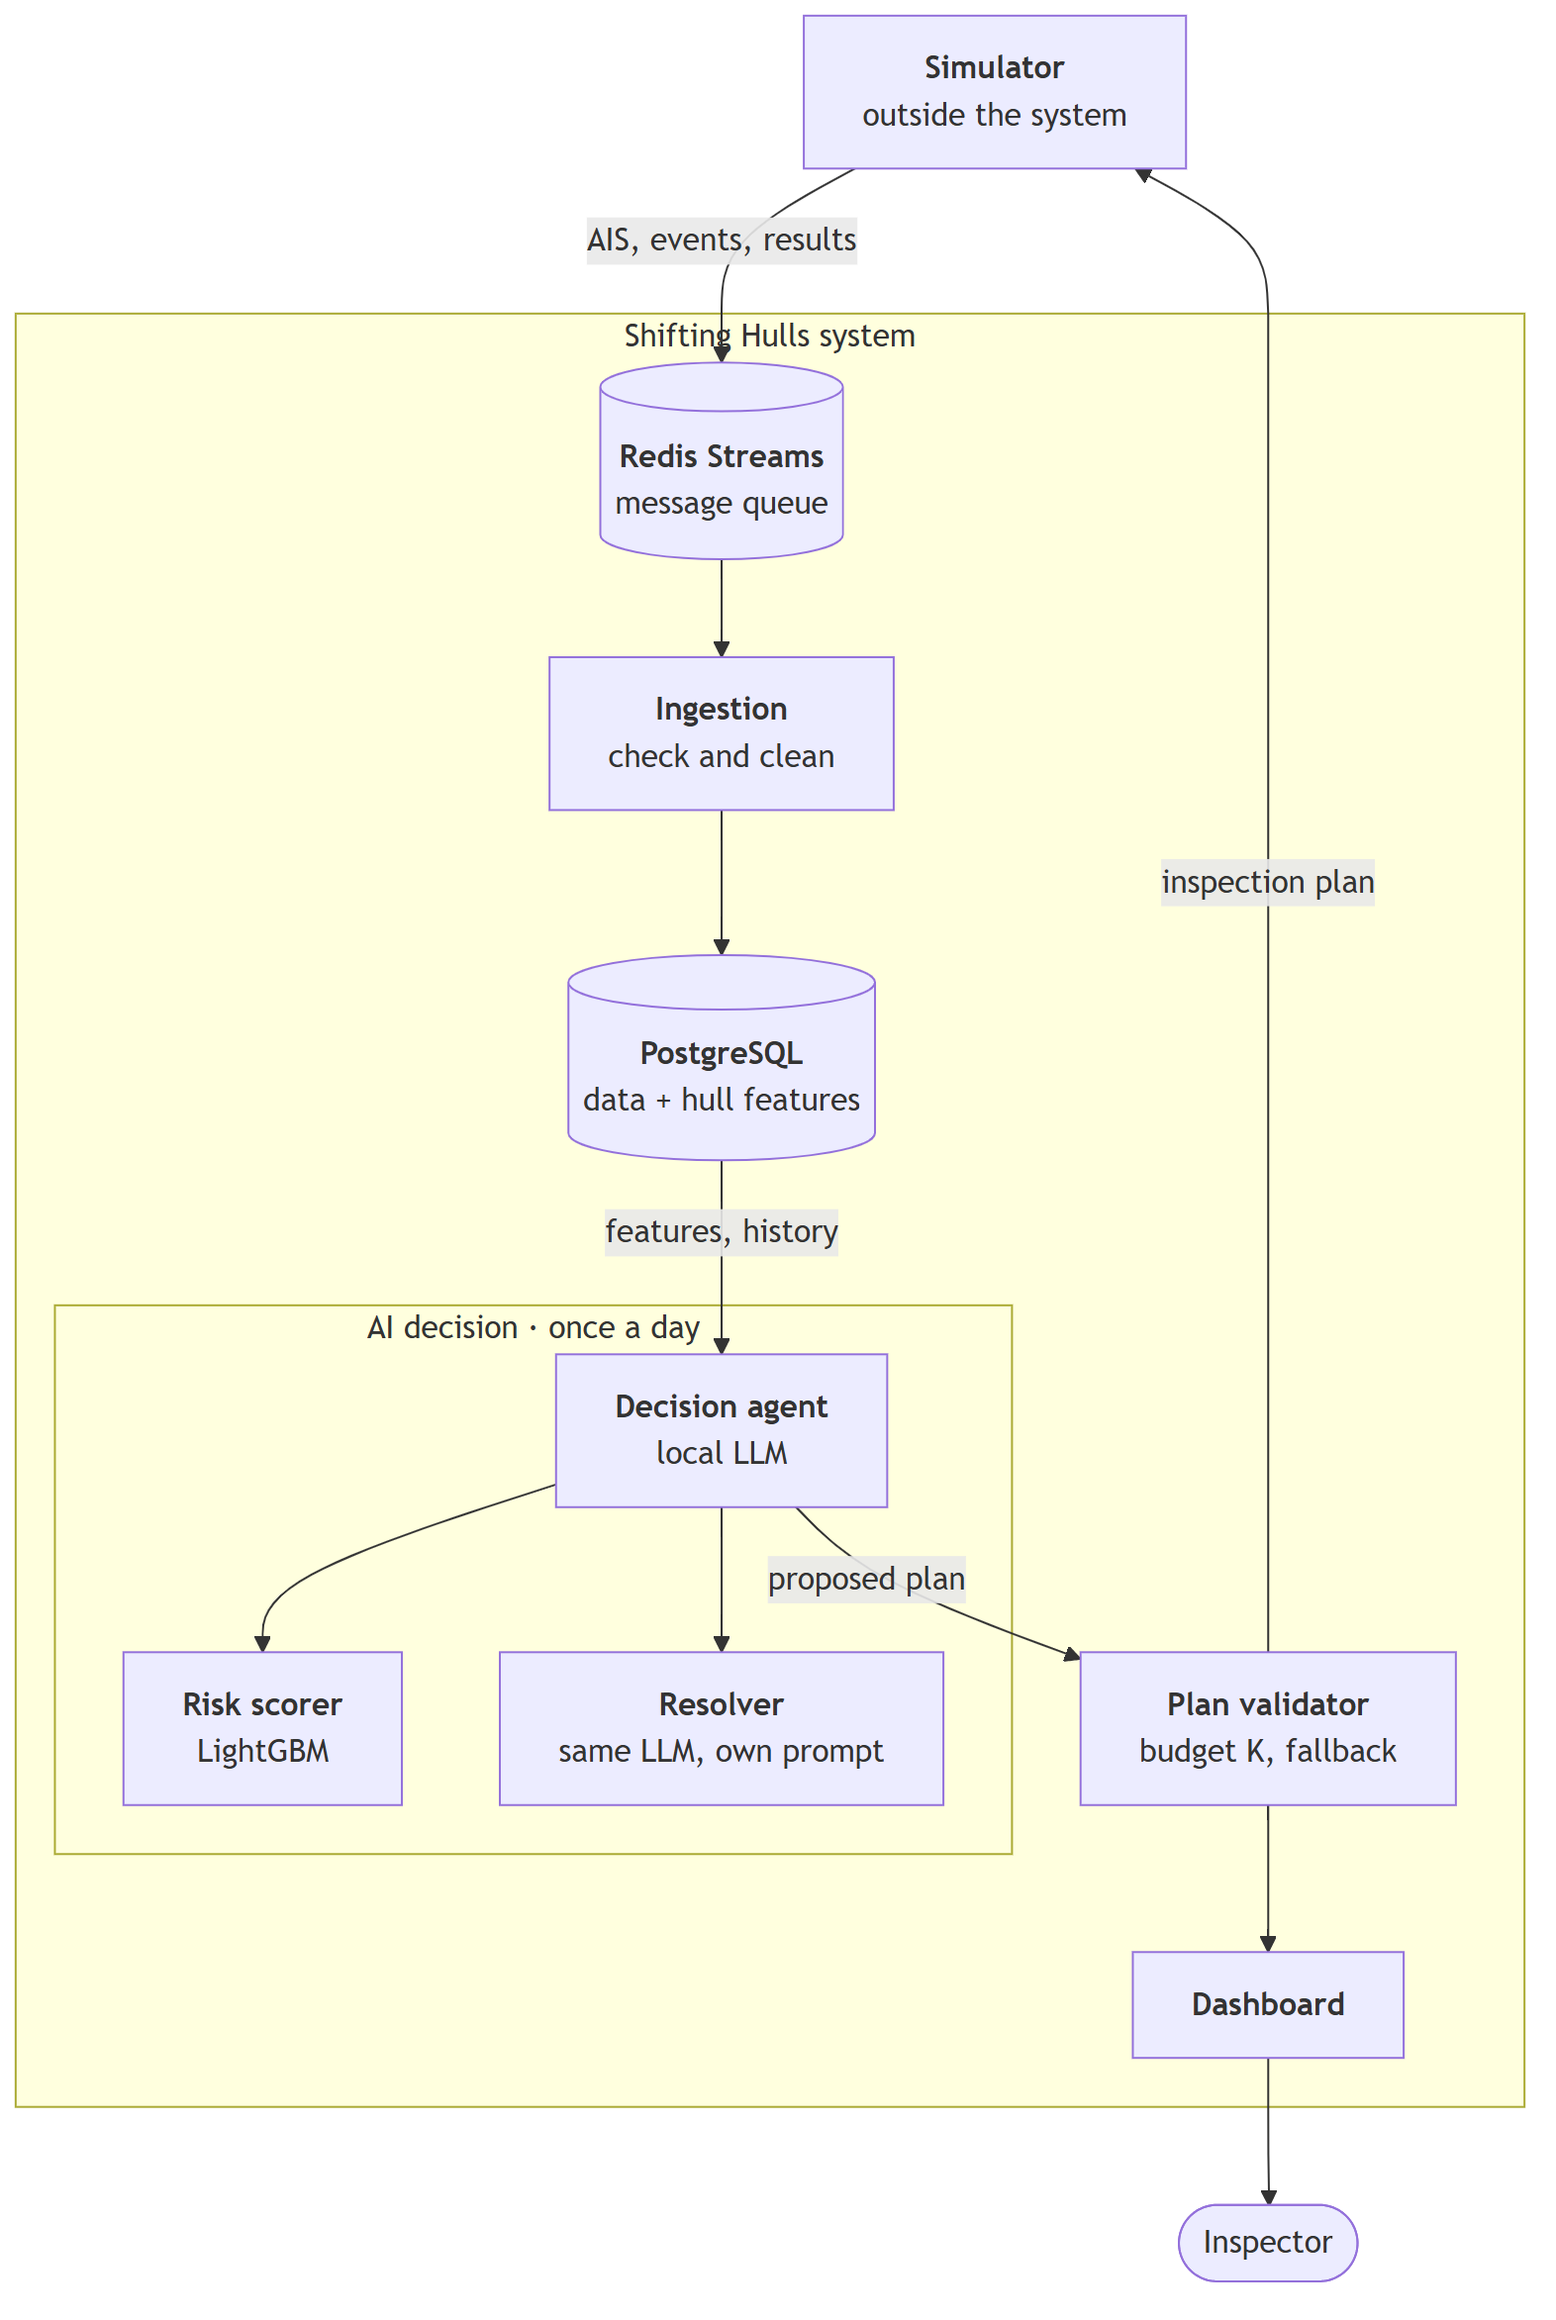
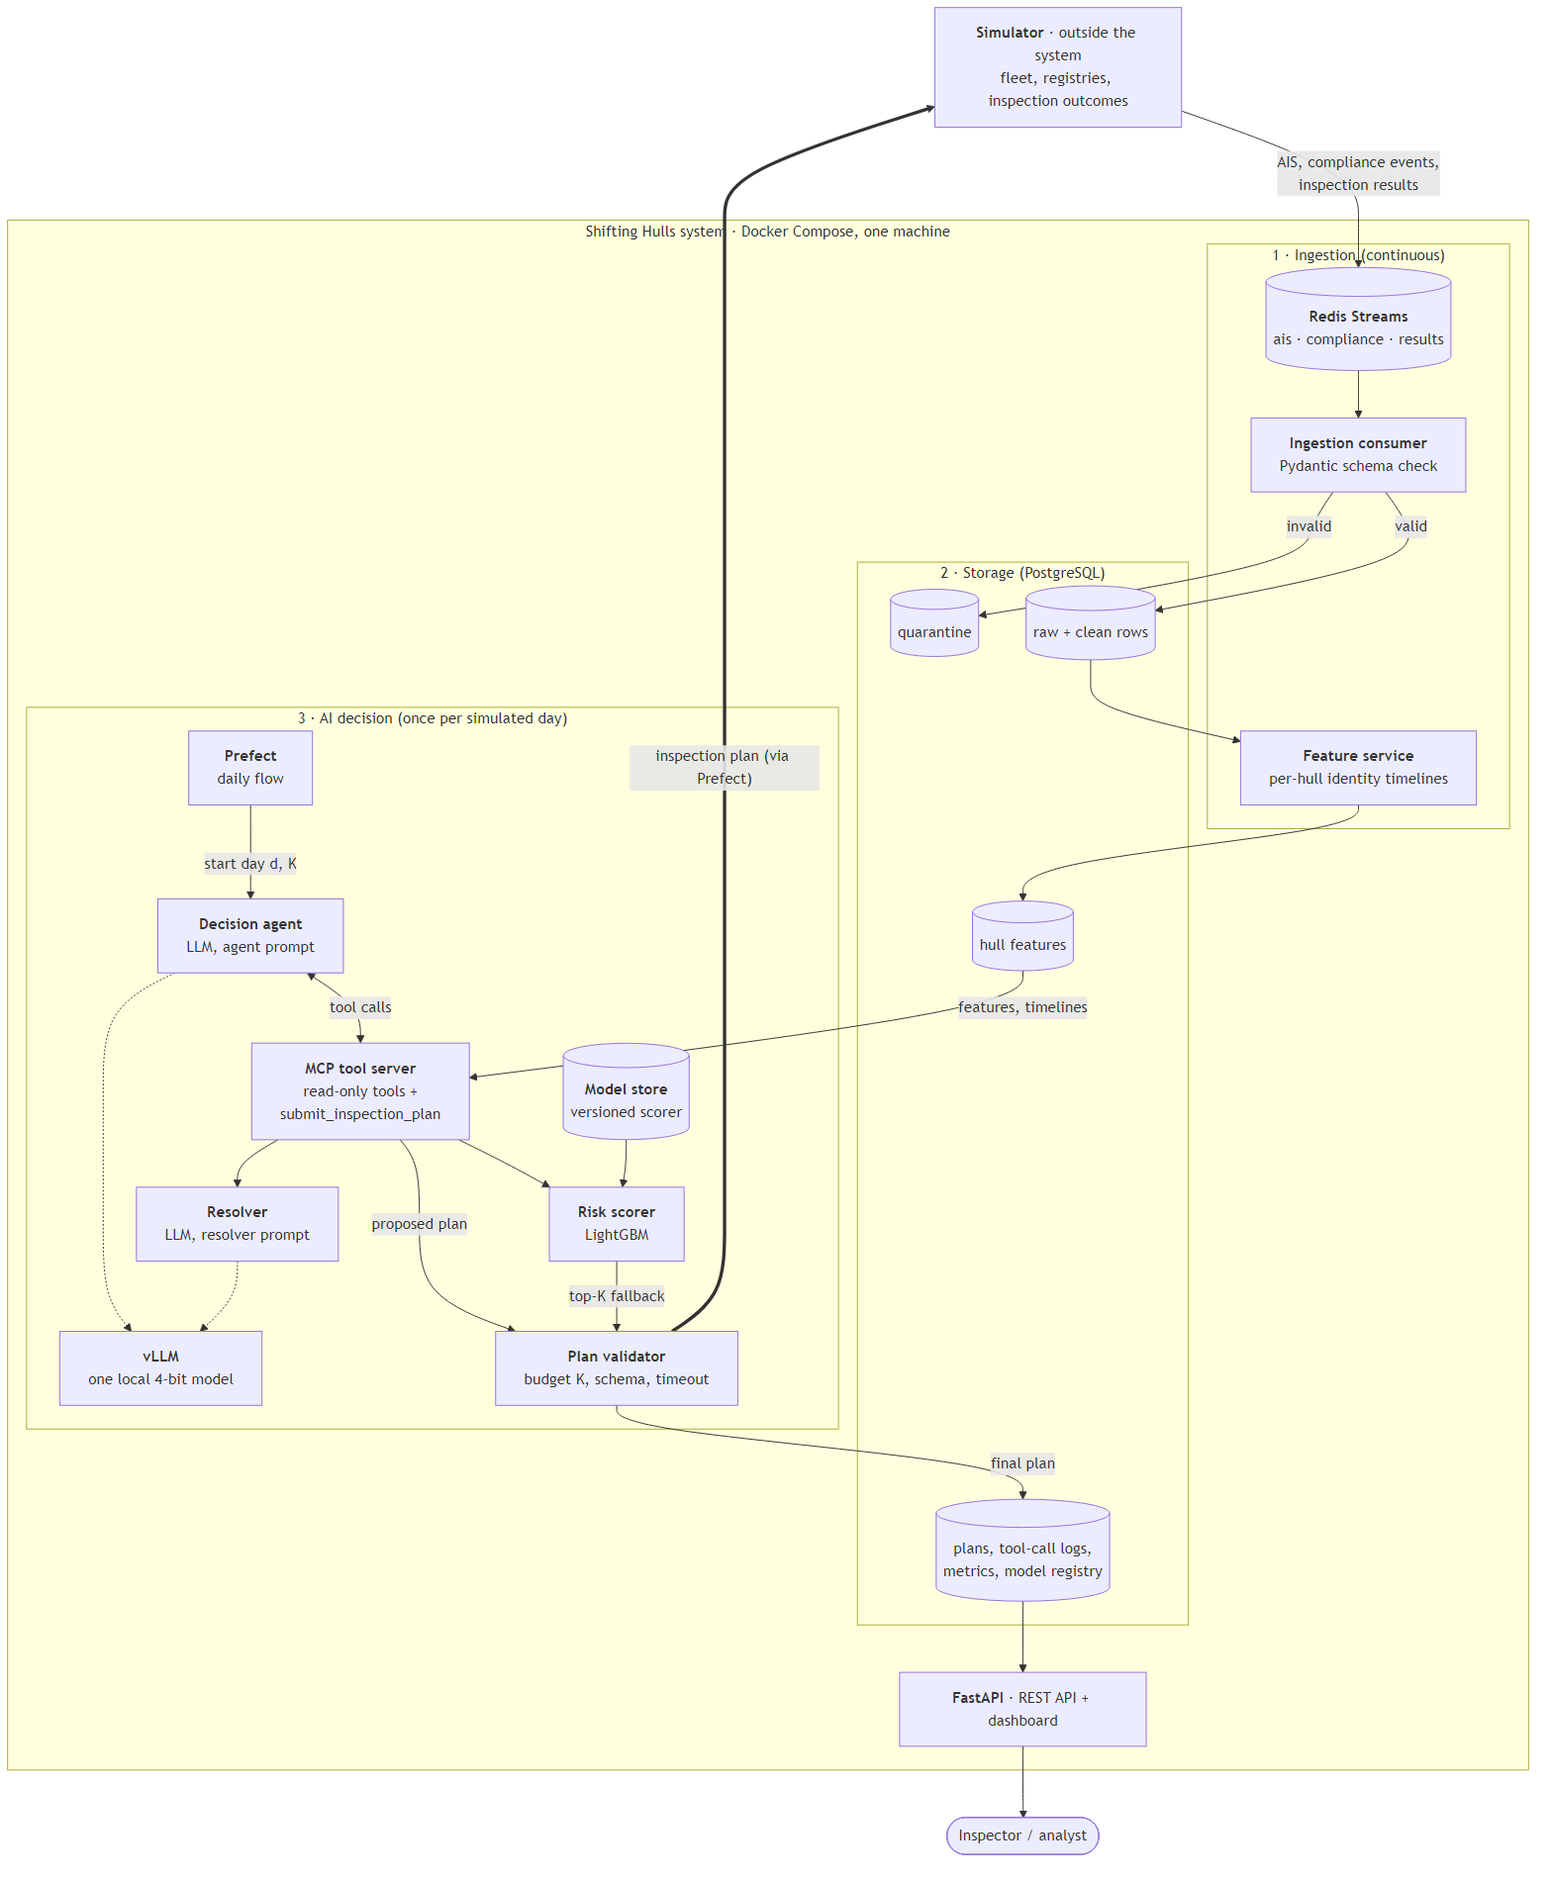
Complete Milestone 2 architecture and plan
Complete Milestone 2 architecture and plan

- Diagrams: full component view with fallback path and system
  boundary; fix inspection-result flow in daily cycle
- Add Stream C schema, MCP tool list and drift retraining policy
- Add secondary metrics, timeline risks and change-log rules
- Add Section 8 (changes since Milestone 1) and root README

diff --git a/docs/Milestone_2_Architecture_and_Plan.md b/docs/Milestone_2_Architecture_and_Plan.md
@@ -82,6 +82,16 @@ A seeded simulator, configured in YAML, creates a fleet of N hulls (default N = 
 
 **Stream C: inspection results** (feedback loop). After each day the simulator reports what each inspection found (shadow or not). Inspected shadow hulls may adapt, for example by changing identity less often and switching off AIS more often. This is how drift is created.
 
+| Field | Example | Notes |
+|---|---|---|
+| `day`, `plan_id` | 12, `p-0012` | Which daily plan the inspection belongs to |
+| `imo`, `mmsi` | 9319703, 273456780 | Identity of the inspected hull at inspection time |
+| `outcome` | `shadow` / `clean` | The only ground truth the system ever sees during operation |
+| `reported_at` | end of day *d* | Available to the system from day *d*+1 |
+
+- **Frequency:** K messages per simulated day (one per inspected hull).
+- **Labels and fairness of evaluation:** the system only learns labels for hulls it chose to inspect. The full ground truth (which hulls are shadow) stays inside the simulator and is used only by the evaluation scripts, never by the running system.
+
 ### 2.3 How new data enters the system
 
 1. The simulator publishes messages to **Redis Streams** (one stream each for AIS, compliance and inspection results).
@@ -97,16 +107,16 @@ Because every message is stored raw, any simulated day can be **replayed** later
 
 ### 3.1 Components and data flow
 
-<p align="center"><img src="diagrams/architecture.png" alt="System architecture" width="520"></p>
+<p align="center"><img src="diagrams/architecture.png" alt="System architecture" width="760"></p>
 
-**How to read it**
+**How to read it** (the numbers match the boxes in the diagram)
 
-1. The simulator sends AIS messages, compliance events and inspection results into Redis Streams.
-2. Ingestion checks every message and stores it in PostgreSQL, where the features of each hull are kept up to date.
-3. Once a day, the decision agent reads this data, asks the risk scorer and the resolver for help, and proposes K hulls to inspect.
-4. The plan validator checks the plan, or falls back to the scorer's top-K, and the plan goes back to the simulator. The dashboard shows it to the inspector.
+1. **Ingestion, continuous.** The simulator sends AIS messages, compliance events and inspection results into three Redis streams. The ingestion consumer checks every message against its schema. Valid messages are stored as raw and clean rows, and invalid ones go to quarantine. The feature service turns the clean rows into per-hull identity timelines and features.
+2. **Storage.** One PostgreSQL database holds everything: raw and clean rows, quarantine, hull features, and the outputs of the AI layer (plans, every tool call, metrics, and the registry of model versions).
+3. **AI decision, once per simulated day.** Prefect starts the decision agent with the day number and budget K. The agent works only through the MCP tool server. The server reads hull features, calls the risk scorer (loaded from the model store) and the resolver, and accepts the plan through `submit_inspection_plan`. The agent and the resolver both run on the same vLLM model. The plan validator checks the proposed plan. If it is invalid or late, the validator uses the scorer's top-K instead.
+4. **Output.** The final plan is logged, sent back to the simulator through Prefect (thick arrow), and shown in the dashboard. The FastAPI REST API exposes the same data to scripts.
 
-Behind the scenes, Prefect runs the daily cycle, and the agent calls the scorer and the resolver through MCP tools. Model training is shown in Section 5.
+Model training is shown separately in Section 5.
 
 **System boundary.** The simulator is outside the system. It plays the role of the real world: ships, registries and inspection outcomes. Everything inside the "Shifting Hulls system" box is built and evaluated by the project. The only ways in are the Redis streams, and the only way out is the inspection plan.
 
@@ -120,14 +130,26 @@ Behind the scenes, Prefect runs the daily cycle, and the agent calls the scorer 
 | Storage | PostgreSQL | Raw and clean data, identity timelines, plans, metrics |
 | Feature service | Python | Keeps per-hull features up to date (churn, gaps, events) |
 | AI modules | One local LLM on vLLM, LightGBM scorer | See Section 4 |
+| Model store | Versioned files + `models` table | Holds the scorer versions. The current one is loaded at startup |
 | Tool layer | MCP server (Python SDK) | The only way the agent can read data or act |
+| Plan validator | Python | Enforces budget K, the plan schema and the deadline. Falls back to scorer top-K |
 | Orchestration | Prefect | Runs the daily cycle and sends the plan to the simulator |
 | Interface | FastAPI + dashboard | Shows ranked hulls, reasons and metrics. REST API for scripts |
 | Deployment | Docker Compose | Runs all services on one machine |
 
 ### 3.2 One simulated day, step by step
 
-<p align="center"><img src="diagrams/daily-cycle.png" alt="One simulated day" width="680"></p>
+<p align="center"><img src="diagrams/daily-cycle.png" alt="One simulated day" width="760"></p>
+
+Data streams in all day. The decision is made once, at the end of day *d*, using whatever has arrived by then. Late compliance events are therefore simply missing from that day's decision, which is what the *late data* scenario tests. The agent's tools are:
+
+| Tool | Type | Returns |
+|---|---|---|
+| `get_shortlist(m)` | read | Top-*m* hulls by risk score (default *m* = 60), with scores and the main features behind each |
+| `get_timeline(hull)` | read | All MMSIs, names, flags and AIS gaps linked to a hull, with dates |
+| `get_events(hull)` | read | Compliance events linked to a hull, with their publish times |
+| `resolve_identity(records)` | read | Resolver verdict: same hull or not, with a confidence |
+| `submit_inspection_plan(plan)` | **write** | Accepts exactly K hulls with one reason each. The only tool that changes state |
 
 ### 3.3 Security by design
 
@@ -182,6 +204,12 @@ The system has three AI components, each with a separate job and its own metric.
 
 **How the system uses them during operation.** Each simulated day, Prefect starts the agent. The agent calls the scorer and the resolver through MCP tools, gets answers within seconds, and submits a plan. Every call, output and latency is logged. These logs feed the evaluation and later retraining, for example re-scoring after drift (Section 6).
 
+**Retraining policy.**
+
+- The **initial scorer** is trained on development seeds only, using the simulator's ground truth as labels. It is then frozen for all evaluation seeds.
+- **Re-scoring after drift** is tested as a separate condition. On day 15 of each run, the scorer is retrained using only labels the system could really have: its own inspection results plus listing events. The hidden ground truth is not used. A new model version is written to the model store and loaded for days 16–30. Comparing the frozen and retrained conditions shows whether re-scoring recovers the loss caused by drift.
+- The LLM is never retrained. Prompts are frozen before the main experiment, and the prompt version is recorded with every run.
+
 ---
 
 ## 6. Evaluation
@@ -210,6 +238,7 @@ The system has three AI components, each with a separate job and its own metric.
 | Level | Metric |
 |---|---|
 | End-to-end (main) | Shadow hulls caught per 20 inspections, averaged over 30 days, with paired differences and 95% intervals |
+| End-to-end (secondary) | Wasted inspections on legitimate hulls (K minus catches), and the share of the agent's picks that are not in the scorer's top-K (does the agent add anything?) |
 | Resolver | F1, calibration (does a 0.8 confidence mean right 80% of the time?) |
 | Scorer | AUC, precision@K |
 | System | Agent latency per day, queue lag, fallback rate, share of plans delivered on time |
@@ -242,6 +271,36 @@ The system is built and evaluated by the final project-progress milestone on **3
 | 6 | 21–27 Dec | Bug fixes only | **Main experiment:** agent on 10 seeds × 30 days. Drift and load scenarios | Main results table ready |
 | 7 | 28–31 Dec | Bug fixes only | Late data, model server down and prompt injection scenarios. Analysis: paired intervals and success criterion | **Final project-progress milestone, 31 Dec** |
 | – | January 2027 | No new features | Slides, demo and rehearsal | **Final presentation** |
+
+**Risks to the timeline and what we will do**
+
+| Risk | Effect | Mitigation |
+|---|---|---|
+| The local GPU cannot serve a 14B model fast enough (one full run = 10 seeds × 30 days × 1 agent session) | Main experiment does not fit in week 6 | Measure latency in week 2. If one day takes more than about 2 minutes, switch to the 8B fallback. Seeds can run overnight |
+| The agent's tool calls are unreliable (wrong arguments, loops) | Many fallbacks, so the agent is barely tested | Cap tool calls per day. Test tool calling in week 2 before choosing the model. Report the fallback rate as a result in itself |
+| The simulator is too easy or too hard (the churn rule catches almost all or almost no shadow hulls) | Nothing to learn from the comparison | Calibrate against the pilot numbers (churn rule ≈ 12.5, scorer ≈ 9.4 out of 20) in week 3 before running any agent |
+| Danish AIS gives too few shadow hulls for the resolver check | Weak real-data validation | Download more days. The check is a sanity test, and the main result does not depend on it |
+| Holidays in weeks 6–7 | Less working time | Weeks 6–7 hold only experiments and bug fixes. All components must be finished by week 5 |
+
+**How changes to this plan are recorded.** This timeline is our commitment. If it changes, we update this document in a separate commit and add a row to the change log below with the date, what changed and why. The weekly "Done when" column is what we check ourselves against at the end of each week.
+
+---
+
+## 8. Changes since Milestone 1
+
+The RFC (Milestone 1, [Shifting_Hulls_RFC.pdf](Shifting_Hulls_RFC.pdf)) described the same system. Three design decisions have changed since then:
+
+| RFC (1 Nov) | Now (16 Nov) | Why |
+|---|---|---|
+| Resolver on a 4–9B LLM, agent on a separate LLM of up to 27B | One shared ~14B LLM for both roles, with different prompts | Only one model fits on our local GPU at a time. A 14B model is also the size where published entity-matching results exist [1] |
+| Real-data noise and resolver check on US coastal AIS (NOAA) | Danish Maritime Authority AIS | Danish waters lie on the main export route out of the Baltic, so more shadow-tagged hulls pass through. The files are free and updated daily |
+| Drift: "measure whether re-scoring recovers it" | Concrete retraining protocol (Section 5) using only labels the system could observe | Retraining on the simulator's hidden truth would overstate recovery |
+
+### Plan change log
+
+| Date | Change | Reason |
+|---|---|---|
+| 16 Nov 2026 | Initial plan (this document) | Milestone 2 |
 
 ---
 

diff --git a/README.md b/README.md
@@ -1,0 +1,19 @@
+# Shifting Hulls
+
+A budgeted decision agent for a fleet that changes its identity.
+AI for Connected Industries · Anda Chiorean, Adelina Acsinte, Mocan Sergiu
+
+A simulated port-state-control office: every simulated day, a local LLM agent chooses which K of N vessels to inspect, using AIS-like and compliance event streams, a gradient-boosted risk scorer and an LLM identity resolver.
+
+## Documents
+
+| Milestone | Document |
+|---|---|
+| 1 · RFC | [docs/Shifting_Hulls_RFC.pdf](docs/Shifting_Hulls_RFC.pdf) |
+| 2 · Architecture and implementation plan | [docs/Milestone_2_Architecture_and_Plan.md](docs/Milestone_2_Architecture_and_Plan.md) |
+
+Diagram sources (Mermaid) are in [docs/diagrams/](docs/diagrams/). To re-render one:
+
+```
+npx -y @mermaid-js/mermaid-cli@11.4.2 -i docs/diagrams/architecture.mmd -o docs/diagrams/architecture.png -s 2 -b white
+```
